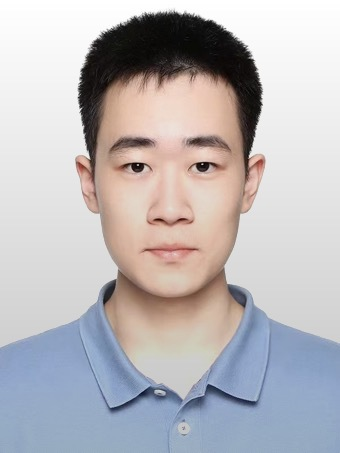
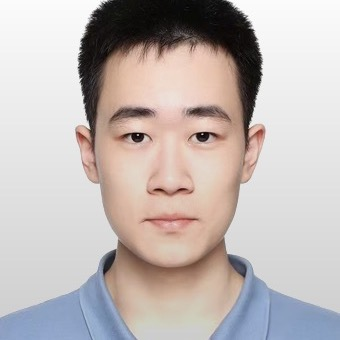
Optimize profile photo and layout
- Crop photo to 340x340 square for proper circular display
- Reduce profile width from 30% to 22% on desktop
- Center more-info text, use theme color, remove monospace font

diff --git a/_sass/_components.scss b/_sass/_components.scss
@@ -60,27 +60,29 @@ ul.task-list input[type="checkbox"] {
 
   .more-info {
     margin-bottom: 5px;
-    margin-top: 5px;
-    font-family: monospace;
+    margin-top: 8px;
+    font-size: 0.85rem;
+    text-align: center;
+    color: var(--global-theme-color);
 
     p {
-      display: inline-block;
+      display: block;
       margin: 0;
     }
   }
 }
 
 .profile.float-right {
-  margin-left: 1rem;
+  margin-left: 1.5rem;
 }
 
 .profile.float-left {
-  margin-right: 1rem;
+  margin-right: 1.5rem;
 }
 
 @media (min-width: 576px) {
   .profile {
-    width: 30%;
+    width: 22%;
 
     .address {
       p {
